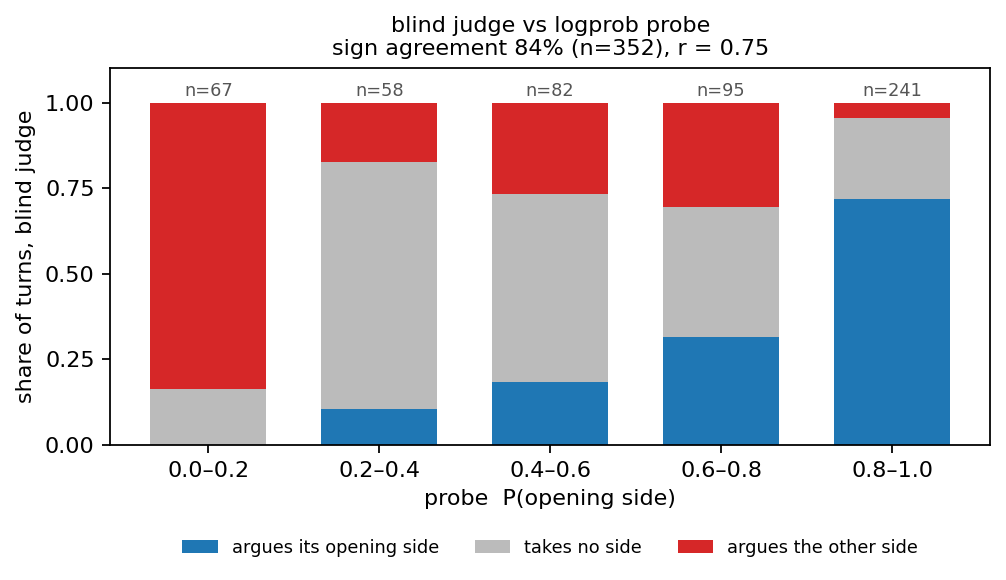
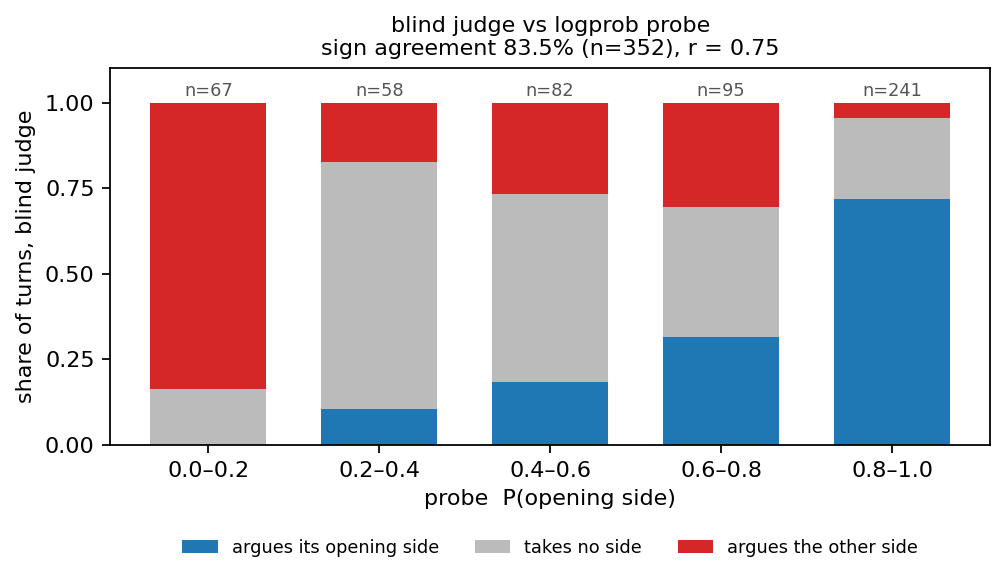
adjust plot png output

Changed region(s): [[0.3082, 0.0621, 0.7704, 0.1241]]

diff --git a/plot_judge.py b/plot_judge.py
@@ -72,7 +72,7 @@ def fig_validity(rows, outdir):
     rho = np.corrcoef([r["p_own"] for r in dec],
                       [1.0 if r["j_own"] == "own" else 0.0 for r in dec])[0, 1]
     ax.set_title(f"blind judge vs logprob probe\n"
-                 f"sign agreement {agree:.0%} (n={len(dec)}), r = {rho:.2f}",
+                 f"sign agreement {agree:.1%} (n={len(dec)}), r = {rho:.2f}",
                  fontsize=10)
     fig.tight_layout()
     fig.savefig(outdir / "judge_validity.png", dpi=160, bbox_inches="tight")
